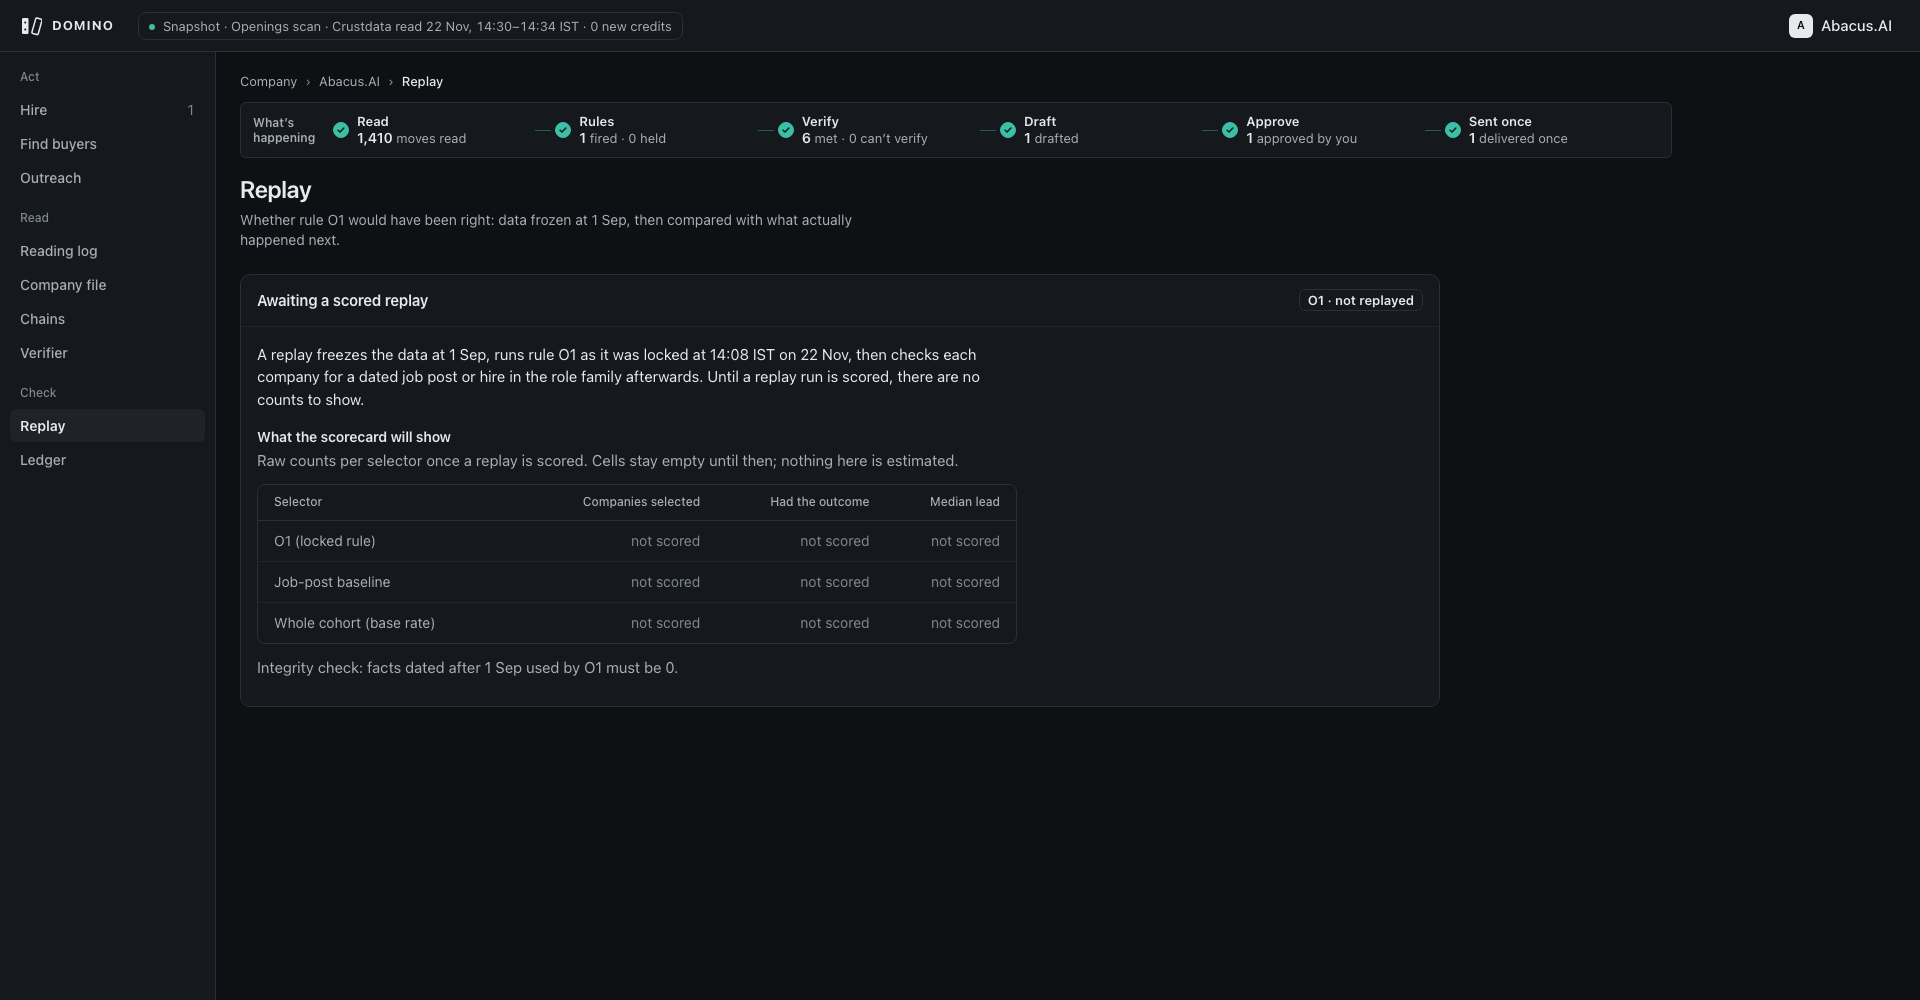
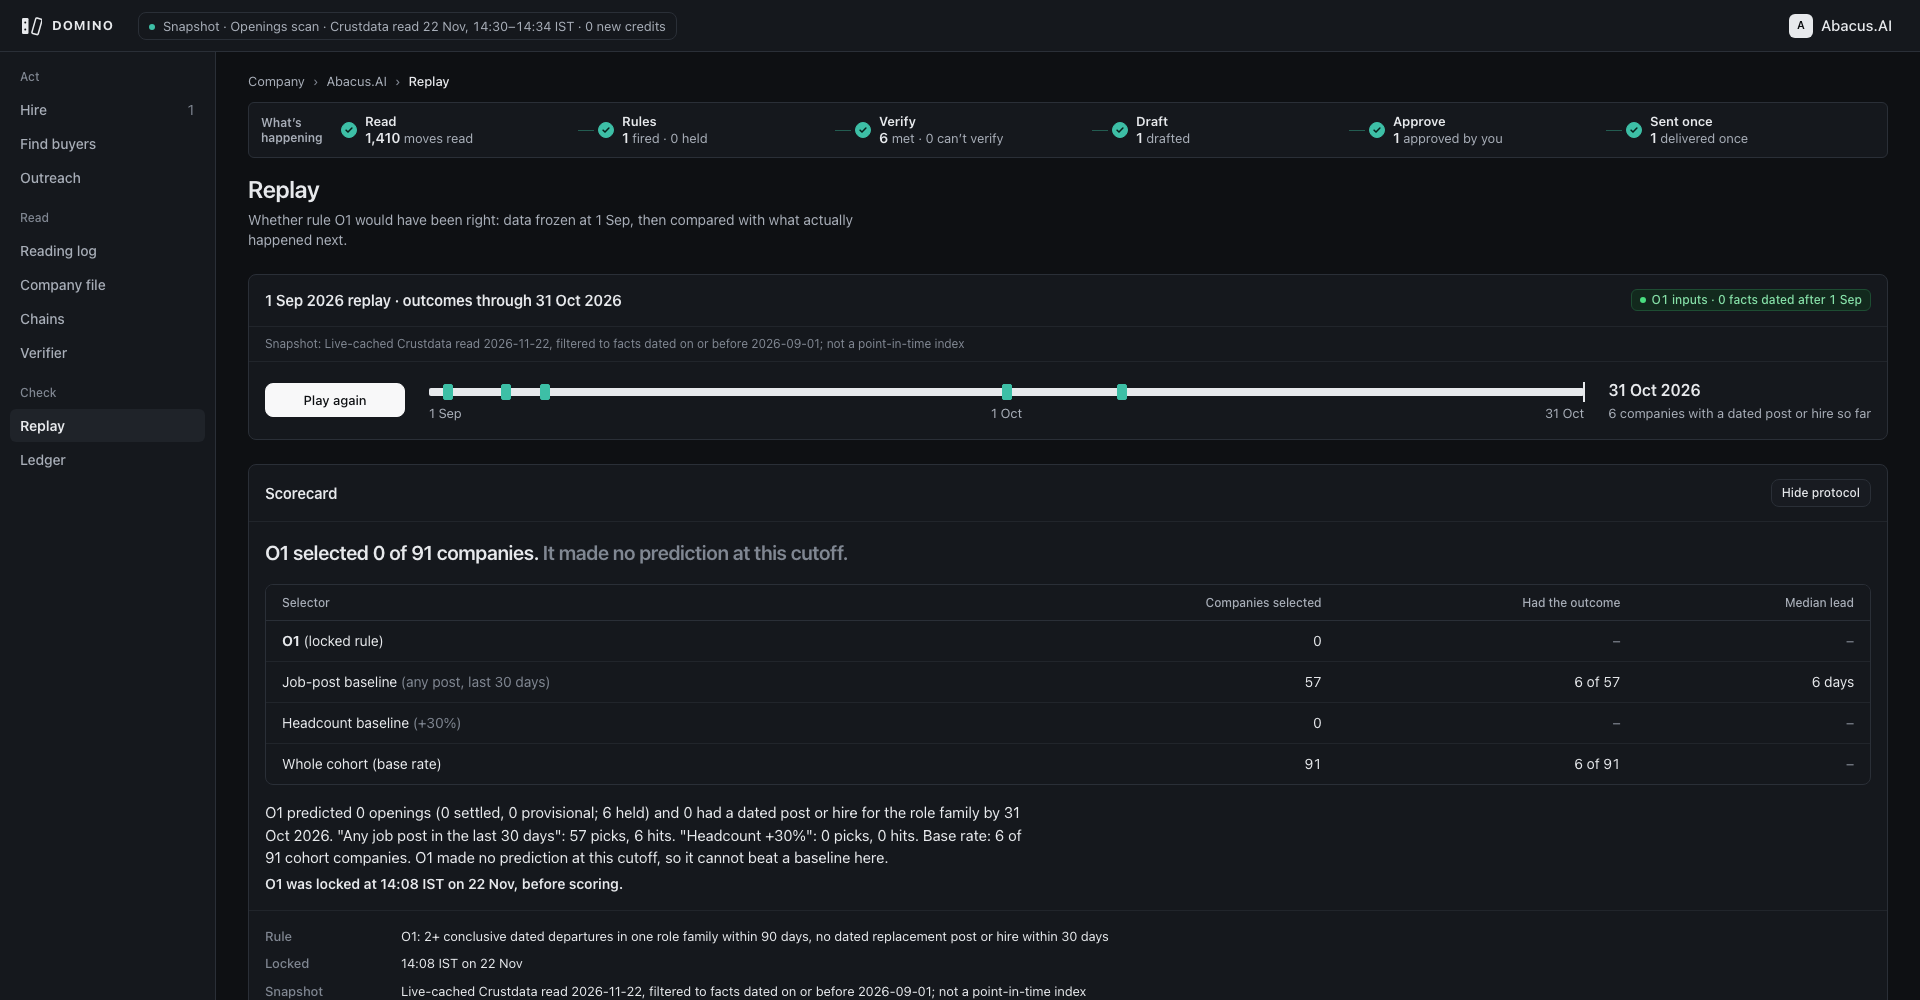
Replay: real cohort base rate (6 of 91) from the server note instead of the scored-list length; headcount baseline row; p7 tone chips; fluid grids
The replay outcomes list only covers companies some selector picked (57), so the whole-cohort row and the lead
read 57 instead of 91. Now: explicit cohort field, else the server note's 'Base rate: X of N', else a row
honestly labelled 'Companies scored (any selector)'. Ledger/Replay status chips use p7-color .ctag .tone-*.
Merged origin/p7-color and origin/p5-shell (c9e8f1e); removed fixed max-widths.

diff --git a/web2/src/features/replay/Replay.tsx b/web2/src/features/replay/Replay.tsx
@@ -88,9 +88,17 @@ function ReplayCard({ score, locked }: { score: Score; locked: string | null }) 
   const pause = () => { cancelAnimationFrame(raf.current); setPlaying(false); };
   useEffect(() => () => cancelAnimationFrame(raf.current), []);
 
-  const N = score.cohort ?? score.outcomes.length;
+  // The server lists outcomes only for companies some selector picked; the whole-cohort base rate lives in its note
+  // ("Base rate: 6 of 91 cohort companies"). Prefer an explicit field, then that sentence, then the scored list (labelled as such).
+  const noteRate = score.note?.match(/Base rate:\s*([\d,]+)\s+of\s+([\d,]+)/i);
+  const num = (s: string) => Number(s.replace(/,/g, ''));
+  const N = score.cohort ?? (noteRate ? num(noteRate[2]) : score.outcomes.length);
+  const cohortHits = noteRate && score.cohort == null ? num(noteRate[1]) : score.outcomes.filter((o) => o.hit).length;
+  const cohortLabel = score.cohort != null || noteRate ? 'Whole cohort (base rate)' : 'Companies scored (any selector)';
   const d = score.domino, base = score.baselineFirstOrder;
-  const cohortHits = score.outcomes.filter((o) => o.hit).length;
+  const hc = (score as Score & { baselineHeadcount?: ReplayScore['baselineFirstOrder'] }).baselineHeadcount;
+  const lead = (n: number | null) => (n != null ? `${fmtInt(n)} days` : <span className="faint">–</span>);
+  const hitCell = (s: { predicted: number; hits: number }) => (s.predicted ? `${fmtInt(s.hits)} of ${fmtInt(s.predicted)}` : <span className="faint">–</span>);
   const ticks = monthTicks(start, end);
 
   return (
@@ -98,7 +106,7 @@ function ReplayCard({ score, locked }: { score: Score; locked: string | null }) 
       <section className="panel">
         <header>
           <h2>{fmtDate(score.asOf, true)} replay · outcomes through {fmtDate(score.horizonEnd, true)}</h2>
-          <span className={`st ${score.factsAfterAsOfUsed === 0 ? 'verified' : 'held'}`}>O1 inputs · {fmtInt(score.factsAfterAsOfUsed)} facts dated after {fmtDate(score.asOf)}</span>
+          <span className={`ctag ${score.factsAfterAsOfUsed === 0 ? 'tone-verified' : 'tone-held'}`}>O1 inputs · {fmtInt(score.factsAfterAsOfUsed)} facts dated after {fmtDate(score.asOf)}</span>
         </header>
         {score.snapshotLabel && <p className="rp-src">Snapshot: {score.snapshotLabel}</p>}
         <div className="pad rp-play">
@@ -126,13 +134,14 @@ function ReplayCard({ score, locked }: { score: Score; locked: string | null }) 
         <section className="panel rp-summary" data-testid="replay-summary">
           <header><h2>Scorecard</h2><button className="btn sm" onClick={() => setDrawer((v) => !v)} aria-expanded={drawer} data-testid="replay-drawer">{drawer ? 'Hide protocol' : 'Show protocol and cohorts'}</button></header>
           <div className="pad">
-            <p className="rp-lead">O1 selected <b>{fmtInt(d.predicted)}</b> of {fmtInt(N)} companies. <span className="rp-lead-2">{d.predicted === 0 ? 'Precision unavailable.' : `${fmtInt(d.hits)} had the tracked outcome.`}</span></p>
+            <p className="rp-lead">O1 selected <b>{fmtInt(d.predicted)}</b> of {fmtInt(N)} companies. <span className="rp-lead-2">{d.predicted === 0 ? 'It made no prediction at this cutoff.' : `${fmtInt(d.hits)} had the tracked outcome.`}</span></p>
             <table className="t rp-table">
               <thead><tr><th>Selector</th><th className="num">Companies selected</th><th className="num">Had the outcome</th><th className="num">Median lead</th></tr></thead>
               <tbody>
-                <tr><td><b>O1</b> (locked rule)</td><td className="num">{fmtInt(d.predicted)}</td><td className="num">{d.predicted ? `${fmtInt(d.hits)} of ${fmtInt(d.predicted)}` : <span className="faint">–</span>}</td><td className="num">{d.medianLeadDays != null ? `${fmtInt(d.medianLeadDays)} days` : <span className="faint">–</span>}</td></tr>
-                <tr><td>Job-post baseline</td><td className="num">{fmtInt(base.predicted)}</td><td className="num">{fmtInt(base.hits)} of {fmtInt(base.predicted)}</td><td className="num">{base.medianLeadDays != null ? `${fmtInt(base.medianLeadDays)} days` : <span className="faint">–</span>}</td></tr>
-                <tr><td>Whole cohort (base rate)</td><td className="num">{fmtInt(N)}</td><td className="num">{fmtInt(cohortHits)} of {fmtInt(N)}</td><td className="num"><span className="faint">–</span></td></tr>
+                <tr><td><b>O1</b> (locked rule)</td><td className="num">{fmtInt(d.predicted)}</td><td className="num">{hitCell(d)}</td><td className="num">{lead(d.medianLeadDays)}</td></tr>
+                <tr><td>Job-post baseline <span className="faint">(any post, last 30 days)</span></td><td className="num">{fmtInt(base.predicted)}</td><td className="num">{hitCell(base)}</td><td className="num">{lead(base.medianLeadDays)}</td></tr>
+                {hc && <tr><td>Headcount baseline <span className="faint">(+30%)</span></td><td className="num">{fmtInt(hc.predicted)}</td><td className="num">{hitCell(hc)}</td><td className="num">{lead(hc.medianLeadDays)}</td></tr>}
+                <tr><td>{cohortLabel}</td><td className="num">{fmtInt(N)}</td><td className="num">{fmtInt(cohortHits)} of {fmtInt(N)}</td><td className="num"><span className="faint">–</span></td></tr>
               </tbody>
             </table>
             <p className="rp-why">{score.note}</p>

diff --git a/web2/src/features/ledger/Ledger.tsx b/web2/src/features/ledger/Ledger.tsx
@@ -104,7 +104,7 @@ function LedgerView({ snap, readOnly }: { snap: RunSnapshot; readOnly: boolean }
             <b>Blocked before spend</b> · {stepName(r)} · <span className="mono">{r.endpoint}</span>
             <div className="faint">Credit cap {fmtInt(b.limits.maxCredits)} · used {fmtCredits(credits)} + would have cost ≈ {fmtCredits(r.credits)} = {fmtCredits(credits + r.credits)} · not dispatched</div>
           </div>
-          <span className="st held">Not dispatched</span>
+          <span className="ctag tone-held">Not dispatched</span>
         </div>
       )) : (
         <div className={`blocked${b.exhausted ? '' : ' quiet'}`} data-testid="blocked-call">
@@ -113,7 +113,7 @@ function LedgerView({ snap, readOnly }: { snap: RunSnapshot; readOnly: boolean }
             <div className="faint">A call that would cross a cap is refused before it spends and shows here as “Not dispatched”.
               {b.exhausted === 'seconds' ? ` It ran ${fmtInt(b.used.seconds)} s of ${fmtInt(b.limits.maxSeconds)} s; nothing after that was sent.` : ''}</div>
           </div>
-          <span className={`st ${b.exhausted ? 'held' : 'plain'}`}>{b.exhausted ? 'Cap reached' : 'Within caps'}</span>
+          <span className={`ctag ${b.exhausted ? 'tone-held' : 'tone-met'}`}>{b.exhausted ? 'Cap reached' : 'Within caps'}</span>
         </div>
       )}
 
@@ -165,8 +165,8 @@ function Row({ r }: { r: LedgerEntry }) {
       <td className="lg-time">{fmtTime(r.ts)}</td>
       <td className="lg-step" title={stepName(r)}>{stepName(r)}</td>
       <td className="mono" title={ENDPOINT_NOUN[r.endpoint] ?? r.endpoint}>{r.endpoint}</td>
-      <td>{r.injected ? <span className="st held">Injected fault</span> : modeLabel(r)}</td>
-      <td><span className={`lg-pill ${r.status === 'budget_blocked' ? 'idle' : bad ? 'bad' : 'ok'}`}><i aria-hidden="true" />{STATUS[r.status]}{r.attempt > 1 ? ` · try ${r.attempt}` : ''}</span></td>
+      <td>{r.injected ? <span className="ctag tone-held">Injected fault</span> : modeLabel(r)}</td>
+      <td><span className={`ctag ${r.status === 'budget_blocked' ? 'tone-held' : bad ? 'tone-not-met' : 'tone-met'}`}>{STATUS[r.status]}{r.attempt > 1 ? ` · try ${r.attempt}` : ''}</span></td>
       <td className="num">{r.credits ? fmtCredits(r.credits) : <span className="faint">0</span>}</td>
       <td className="num">{isLlm(r) ? fmtInt(r.inputTokens + r.outputTokens) : <span className="faint">–</span>}</td>
       <td className="num">{r.usd ? fmtUsd(r.usd) : <span className="faint">$0</span>}</td>

diff --git a/web2/src/features/replay/replay.css b/web2/src/features/replay/replay.css
@@ -74,3 +74,4 @@
 .rp-drawer { padding: 16px; font-size: var(--fs-ui); }
 .rp-drawer dt { font-weight: var(--w-med); color: var(--ink-3); }
 .rp-lead-2 { color: var(--ink-3); }
+.replay { max-width: none; grid-template-columns: minmax(0, 1fr); } .rp-table { max-width: none; width: 100%; }
